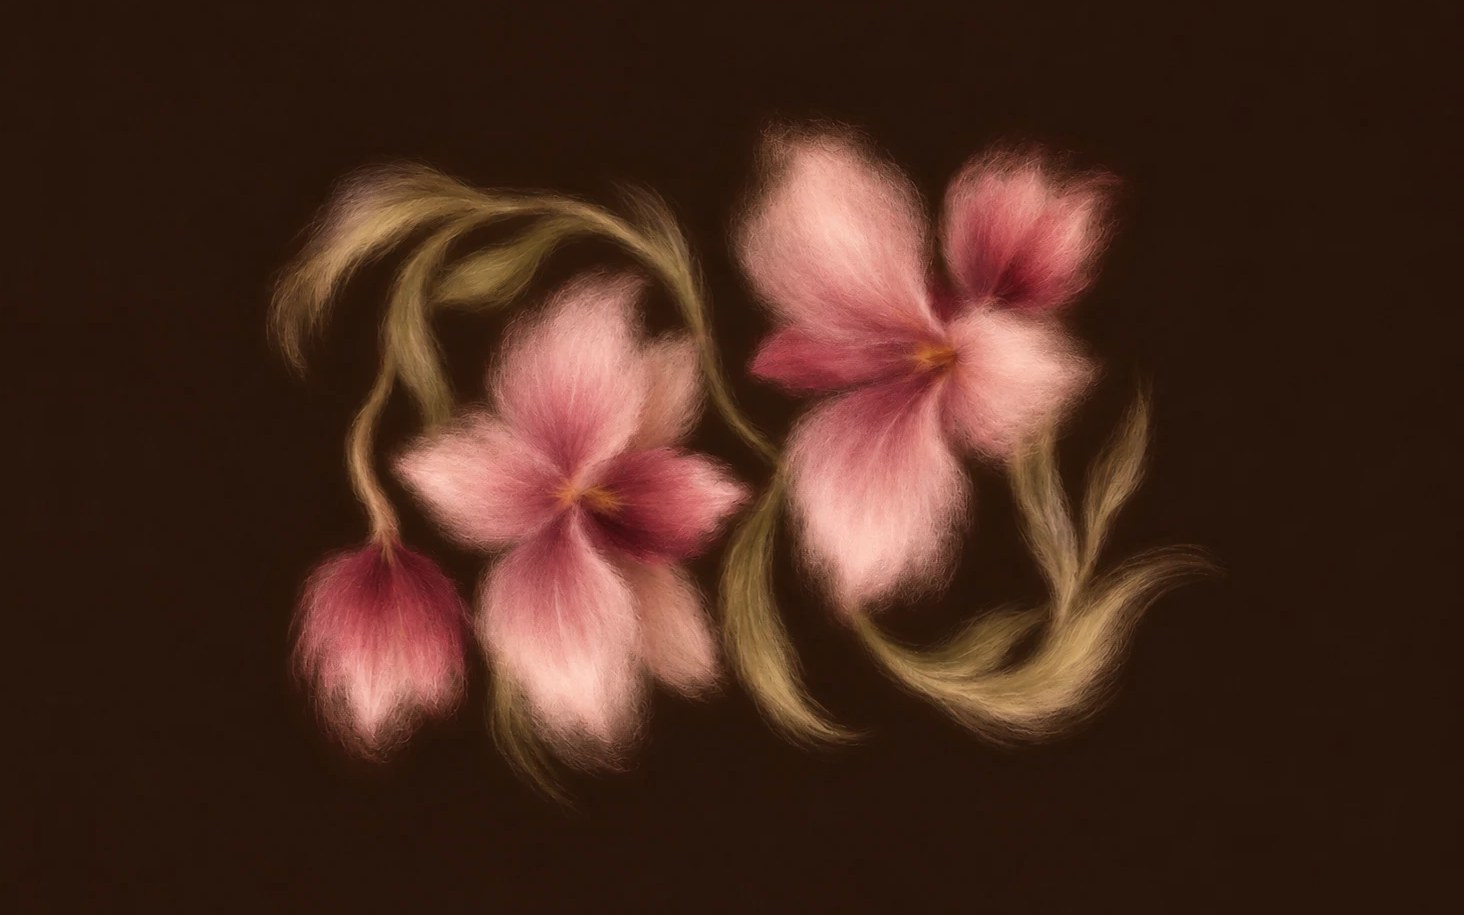
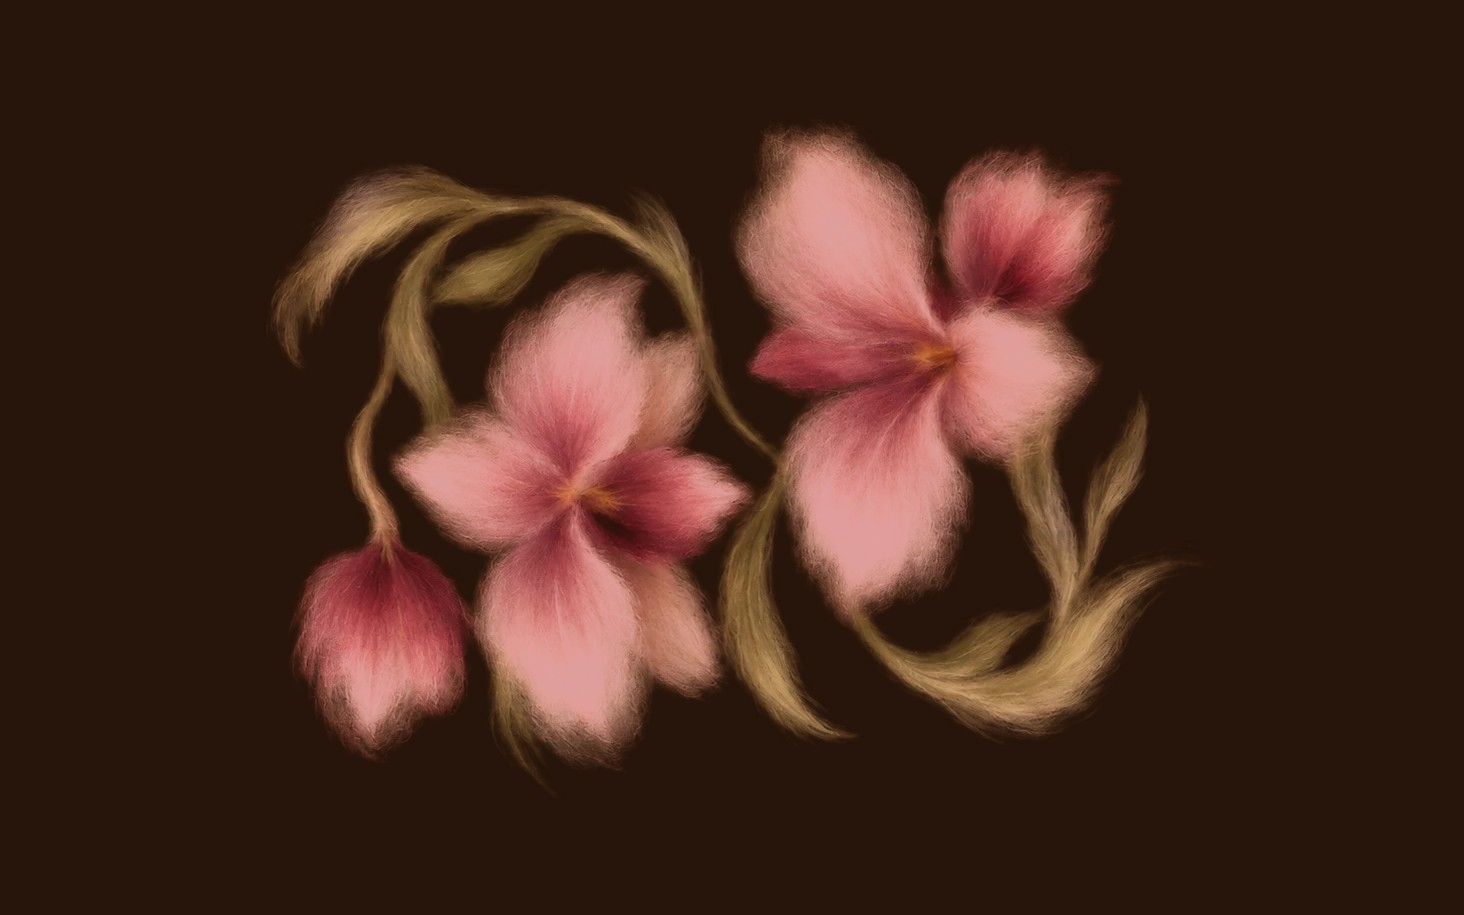
style: fondo marron liso, petalos mas rosas y sombra suave en las letras de portada

diff --git a/index.html b/index.html
@@ -28,8 +28,8 @@
     <link rel="preconnect" href="https://fonts.googleapis.com" />
     <link rel="preconnect" href="https://fonts.gstatic.com" crossorigin />
     <link rel="stylesheet" href="https://fonts.googleapis.com/css2?family=Cormorant+Unicase:wght@400&display=swap" />
-    <link rel="stylesheet" href="assets/styles.css?v=150" />
-    <script src="assets/site.js?v=150" defer></script>
+    <link rel="stylesheet" href="assets/styles.css?v=151" />
+    <script src="assets/site.js?v=151" defer></script>
 
     <!-- Ficha del negocio para Google. Los horarios salen de las clases semanales;
          si cambian, hay que actualizarlos aquí además de en la sección Horarios. -->
@@ -119,8 +119,8 @@
             <!-- Las flores a pastel sobre fondo marron oscuro: en vertical en el movil
                  y giradas en horizontal en el ordenador, ocupando casi toda la pantalla. -->
             <picture>
-              <source media="(max-width: 820px)" srcset="assets/images/hero-flores-movil.jpg?v=2" />
-              <img class="hero__photo" src="assets/images/hero-flores-ordenador.jpg?v=2" alt="" />
+              <source media="(max-width: 820px)" srcset="assets/images/hero-flores-movil.jpg?v=3" />
+              <img class="hero__photo" src="assets/images/hero-flores-ordenador.jpg?v=3" alt="" />
             </picture>
           </div>
           <div class="hero__copy">

diff --git a/assets/styles.css b/assets/styles.css
@@ -276,6 +276,8 @@ figure, h1, h2, h3, p { margin-top: 0; }
 /* La portada va en el marron liso de la foto de las flores, con las letras en
    blanco roto para que se lean encima. */
 .hero { color: #eae0cf; background: #27140a; }
+/* Una sombra muy suave para que las letras se lean donde caen sobre un petalo. */
+.hero__copy { text-shadow: 0 1px 10px rgba(39, 20, 10, 0.55); }
 [data-view="home"] .hero .outline-button { color: #eae0cf; background: rgba(39, 20, 10, 0.55); border-color: #eae0cf; }
 /* La foto llena la portada; los bordes son el mismo marron liso del fondo. */
 .hero__photo { width: 100%; height: 100%; object-fit: cover; object-position: center; }
